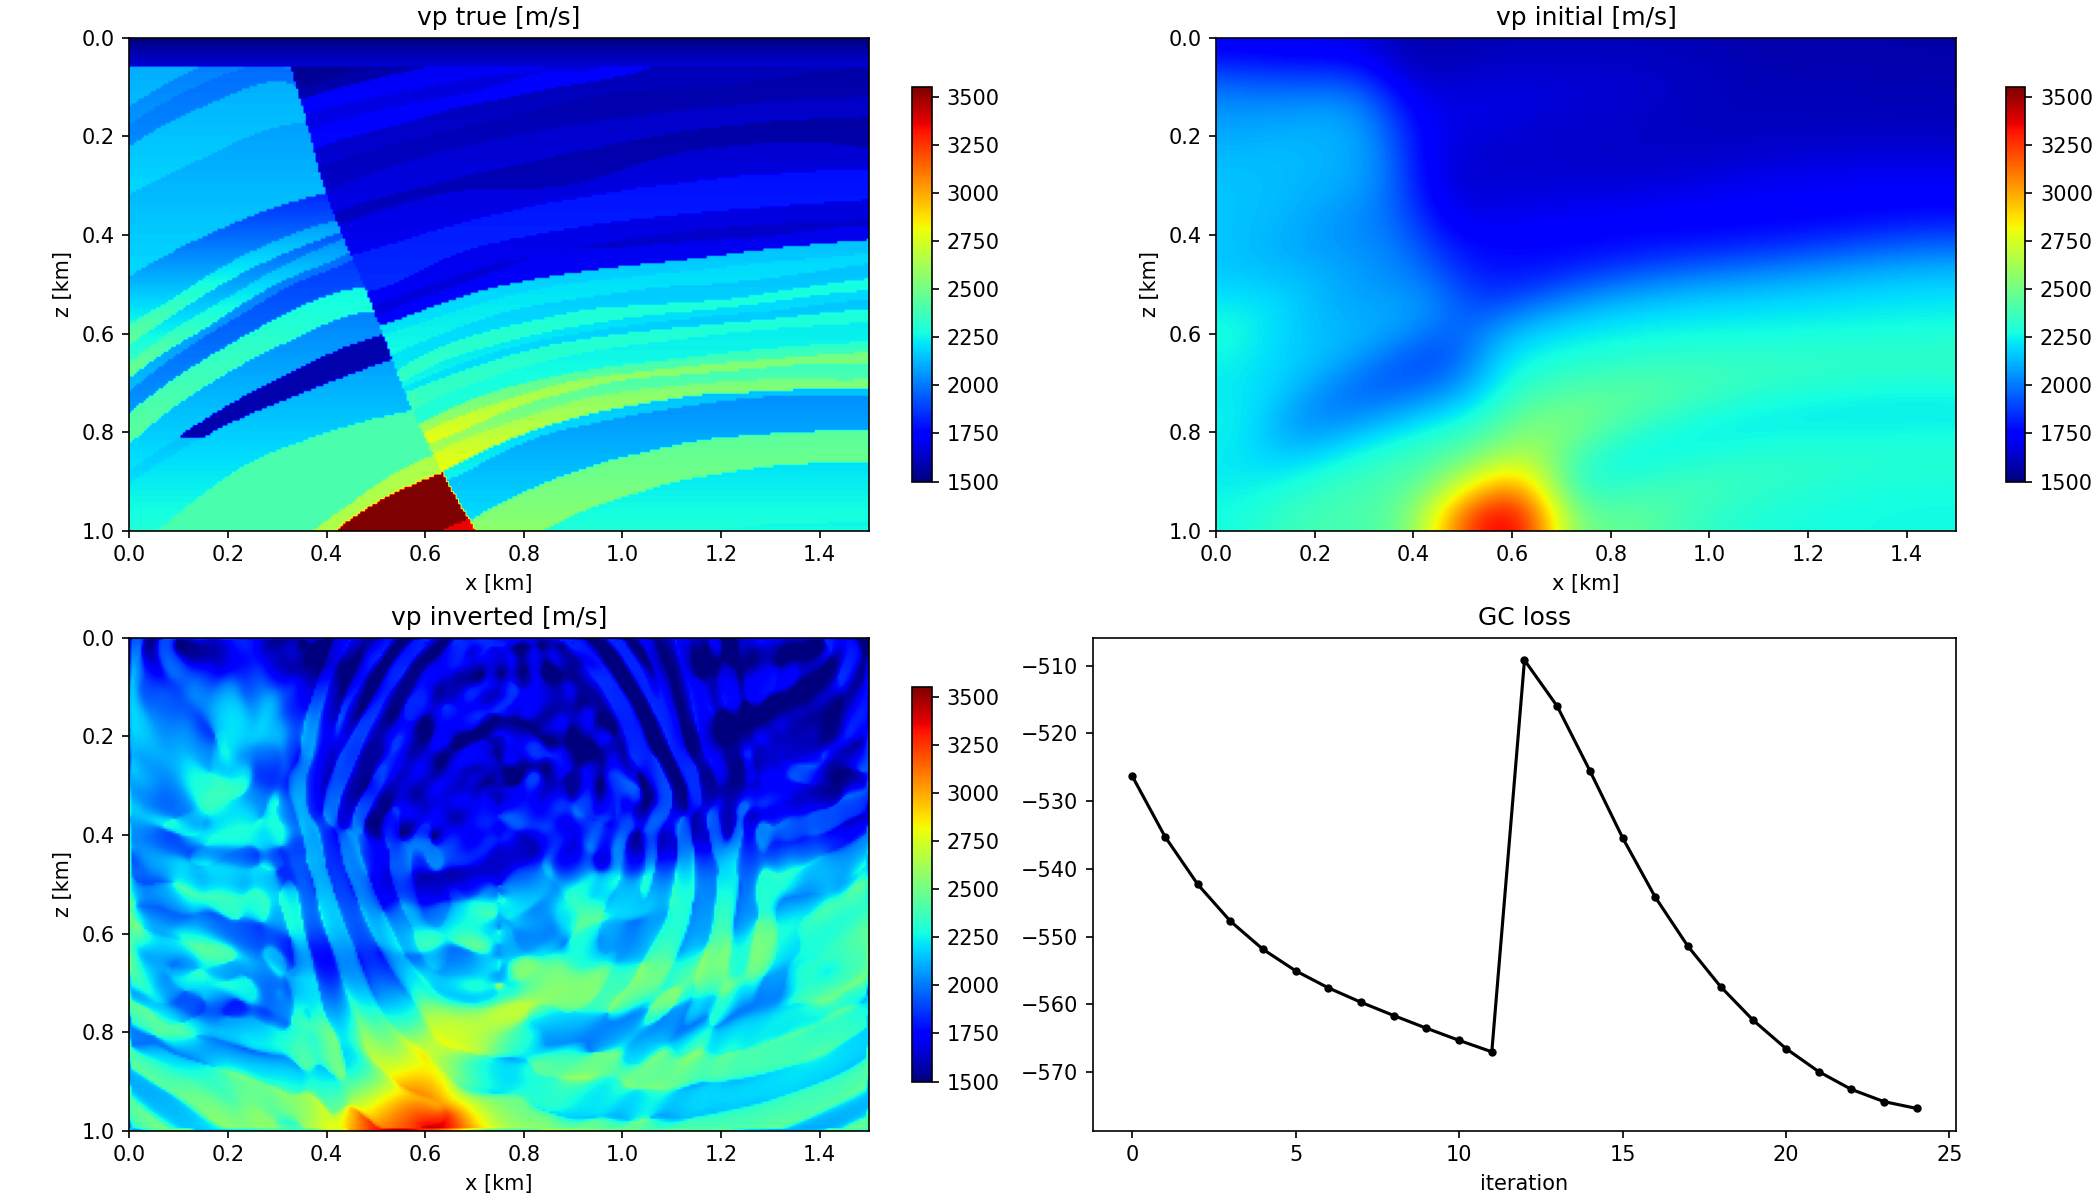
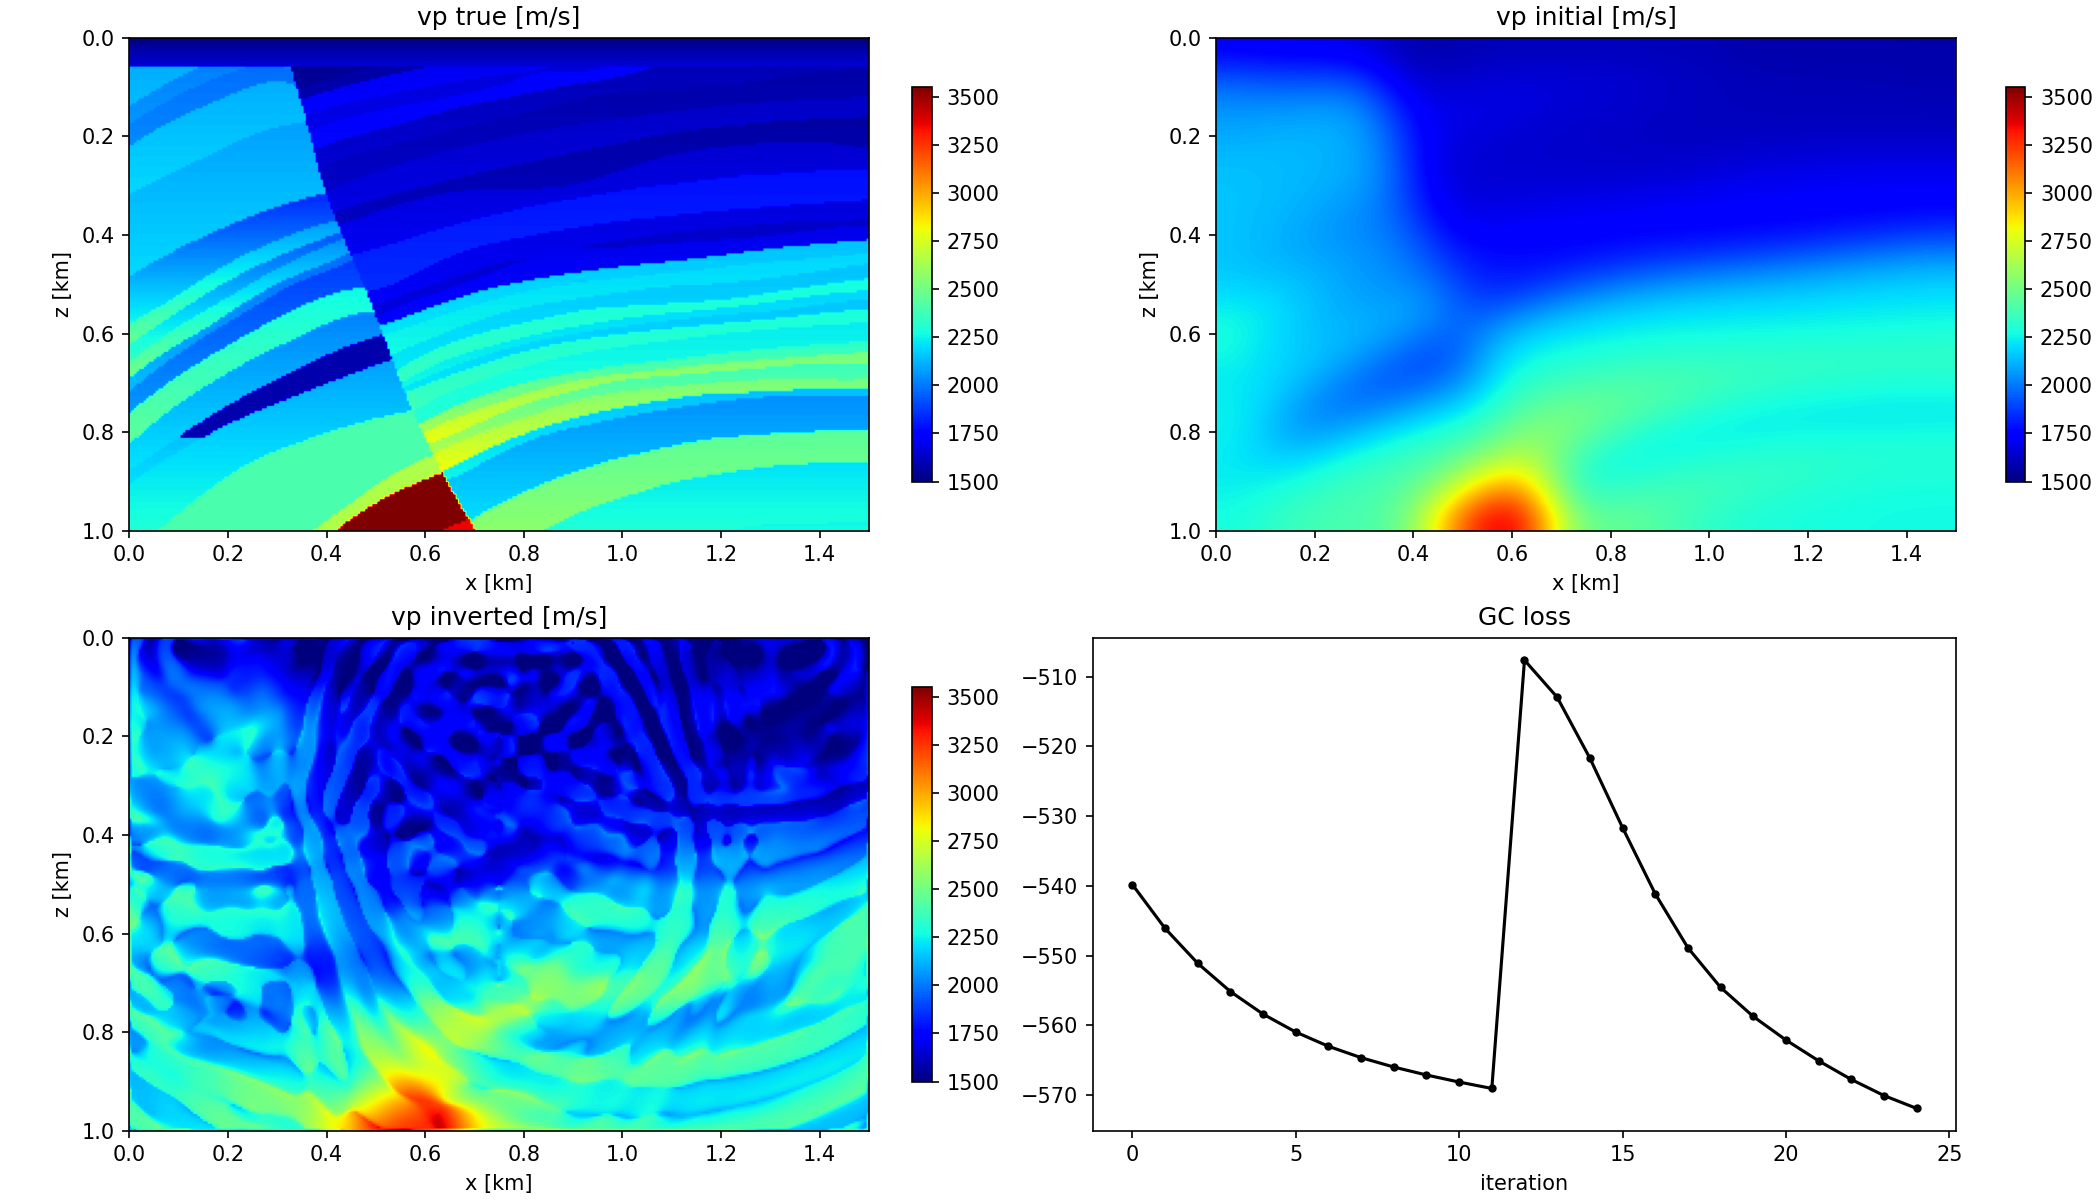
Acoustic demo root cause found: AdamW noise amplification, not density
Density consistency alone did not fix the RMS degradation (170 vs 171).
Diagnosis on the rerun: mean |update| ~103 m/s UNIFORM across the model
(max 266 = iters * lr) - AdamW's per-parameter normalization moves every
cell at ~lr per iteration, so gradient NOISE in unilluminated regions
becomes full-size updates, and it silently defeats the illumination
preconditioner. Near the fiber corr 0.319 / RMS stable; far corr 0.088 /
RMS 135->171.

- run_inverse_crime: optimizer="adamw"|"sgd" config (spec default stays
  adamw); with GradProcessor(norm_grad=True), SGD is the classic
  gradient-proportional FWI update (peak step lr*vmax m/s)
- run_marmousi_demo: optimizer="sgd", lr=0.004 (peak ~14 m/s/iter)
- key finding for HPC campaign design: AdamW needs either dense
  illumination or masked/preconditioned updates for fiber-only geometry

diff --git a/inversion/run_inverse_crime.py b/inversion/run_inverse_crime.py
@@ -86,6 +86,15 @@ DEFAULT_CONFIG = dict(
     nabc=20,
     vp_bound=None,          # (min, max) clip for the inverted vp, or None
     rho=None,               # fixed density [nz, nx]; None -> Gardner(vp_true)
+    optimizer="adamw",      # "adamw" (spec default) or "sgd".
+    # "sgd" + GradProcessor(norm_grad=True) is the classic FWI update: the
+    # processed gradient is vmax * g/|g|max, so the peak cell moves lr*vmax
+    # m/s per iteration and weakly-illuminated cells move proportionally
+    # less. AdamW's per-parameter normalization instead moves EVERY cell at
+    # ~lr per iteration, amplifying gradient noise in unilluminated regions
+    # into full-size updates (diagnosed on the Marmousi single-fiber demo:
+    # uniform ~100 m/s |update| everywhere, RMS worse far from the fiber),
+    # and silently defeats the illumination preconditioner.
 )
 
 
@@ -128,8 +137,13 @@ def run_inverse_crime(config):
                                 device=device, dtype=dtype,
                                 vp_bound=cfg["vp_bound"], rho=rho_fixed)
     prop = AcousticPropagator(model, survey, device=device, dtype=dtype)
-    optimizer = torch.optim.AdamW(model.parameters(), lr=cfg["lr"],
-                                  weight_decay=0.0)
+    if cfg["optimizer"] == "adamw":
+        optimizer = torch.optim.AdamW(model.parameters(), lr=cfg["lr"],
+                                      weight_decay=0.0)
+    elif cfg["optimizer"] == "sgd":
+        optimizer = torch.optim.SGD(model.parameters(), lr=cfg["lr"])
+    else:
+        raise ValueError(f'unknown optimizer {cfg["optimizer"]!r}')
     scheduler = torch.optim.lr_scheduler.StepLR(optimizer, step_size=10 ** 6,
                                                 gamma=1.0)
     loss_fn = GCMisfit64(dt=1) if cfg["misfit"] == "gc" else cfg["misfit"]

diff --git a/inversion/run_marmousi_demo.py b/inversion/run_marmousi_demo.py
@@ -68,7 +68,12 @@ def main():
         fiber=dict(x_well=750.0, z_top=200.0, n_channels=100),
         shots=dict(x_indices=(20, 70, 120, 180, 240, 280), z_index=2,
                    f0=10.0),
-        lr=10.0,
+        # SGD + norm_grad: peak update = lr * vmax ~ 0.004 * 3550 = 14 m/s
+        # per iteration, gradient-proportional elsewhere (see run_inverse_crime
+        # optimizer note; AdamW moved every cell ~lr regardless of gradient
+        # and wrecked the unilluminated regions)
+        optimizer="sgd",
+        lr=0.004,
         misfit="gc",
         bands=[(5.0, 12), (10.0, 13)],       # multiscale: 5 Hz then 10 Hz
         dtype=torch.float32,